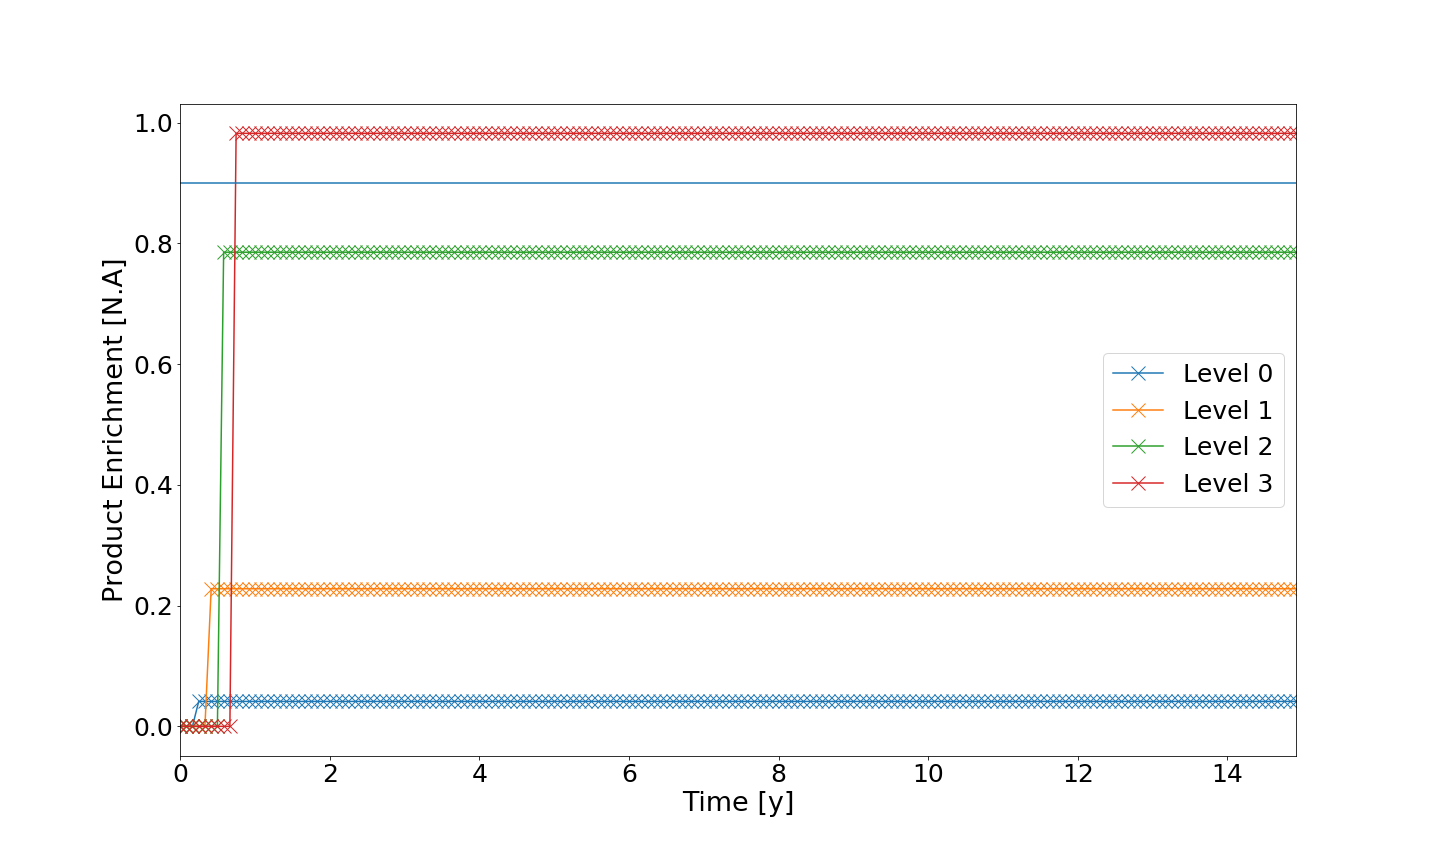
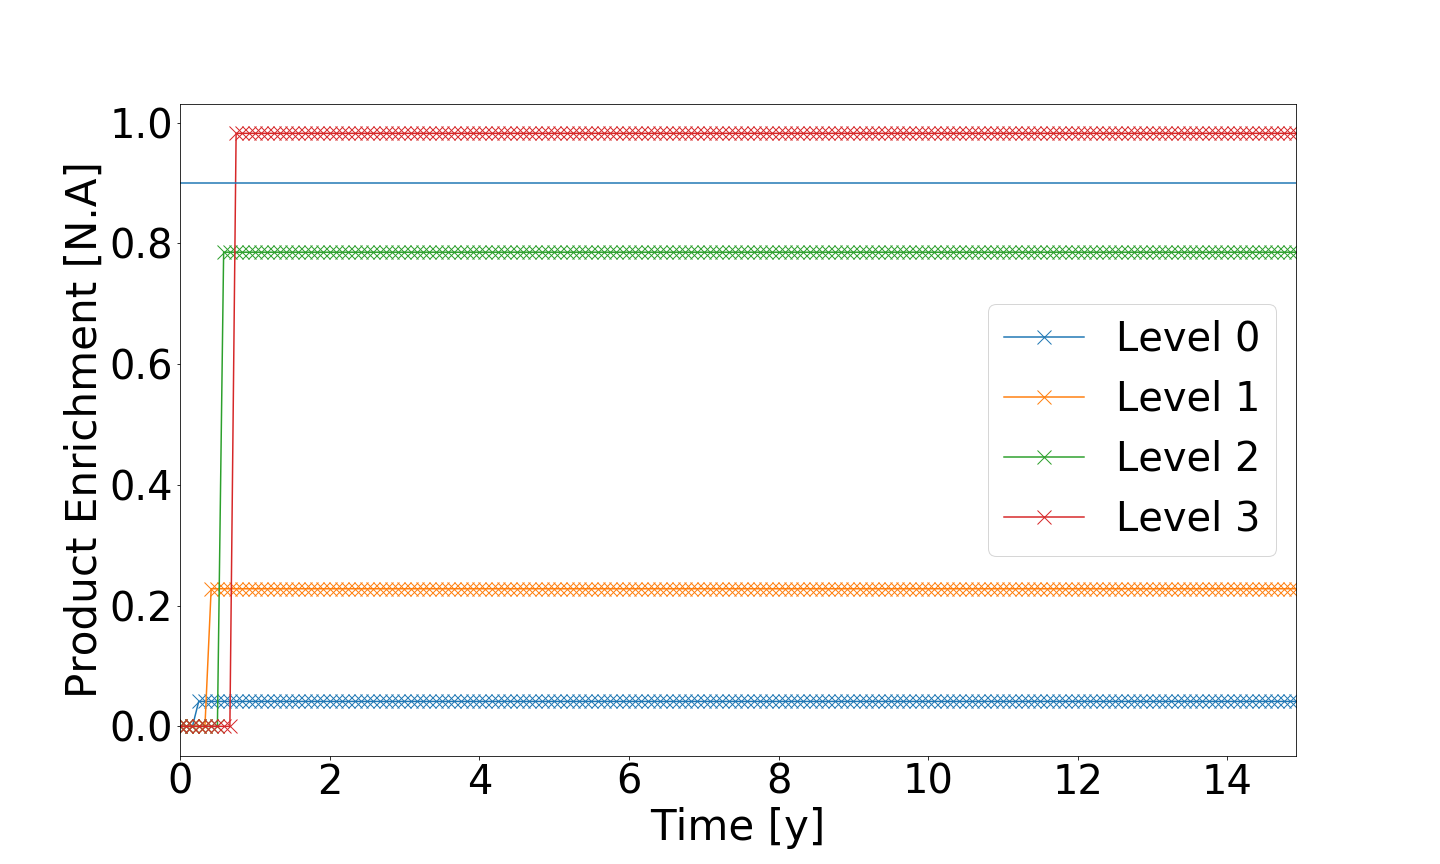
good fig size

diff --git a/paper.tex b/paper.tex
@@ -346,7 +346,6 @@ Level   &  $\theta_{eff}^{C1}$   & $\theta_{eff}^{C2}$ \\
   \caption{Cascade effective $\theta$ by the level and case.}
   \label{tab:cascade_theta}
 \end{table}
-\end{table} 
 As illustrated in Table \ref{tab:cascade_theta}, the effective cut
 of each level increases up to $0.54$ for the fifth stage for case 2. The high
 effective cut value increase the product production rate but decrease the
@@ -380,6 +379,13 @@ blending of its tail allows the product of the third one to pass the $90\%$ thre
 
 \subsection{HEU flow rate}
 
+\begin{figure}[ht] % replace 't' with 'b' to force it to be on the bottom
+  \centering
+  \includegraphics[width=0.5\textwidth]{HEU_prod.png}
+  \caption{Evolution of the different product assays at each cascade level for
+  the case 2 with recycling. The blue line represents the $90\%$ enrichment
+  threshold.}\label{fig:assay_c2_r}
+\end{figure}
 
 %%%%%%%%%%%%%%%%%%%%%%%%%%%%%%%%%%%%%%%%%%%%%%%%%%%%%%%%%%%%%%%%%%%%%%%%%%%%%%%%
 %%%%%%%%%%%%%%%%%%%%%%%%%%%%%%%%%%%%%%%%%%%%%%%%%%%%%%%%%%%%%%%%%%%%%%%%%%%%%%%%
